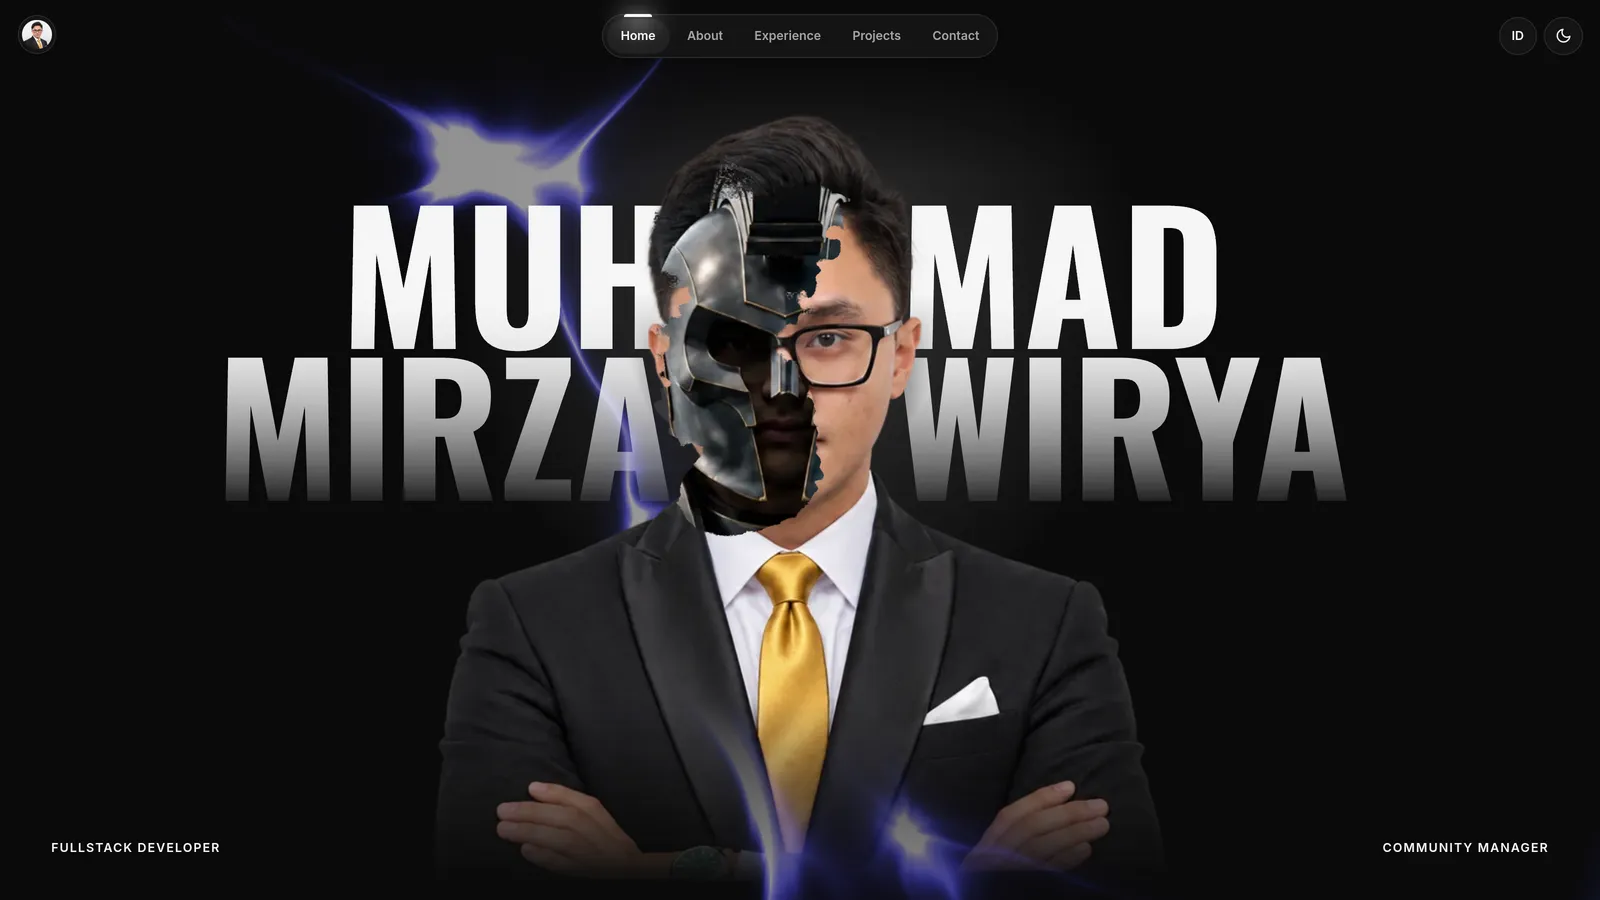
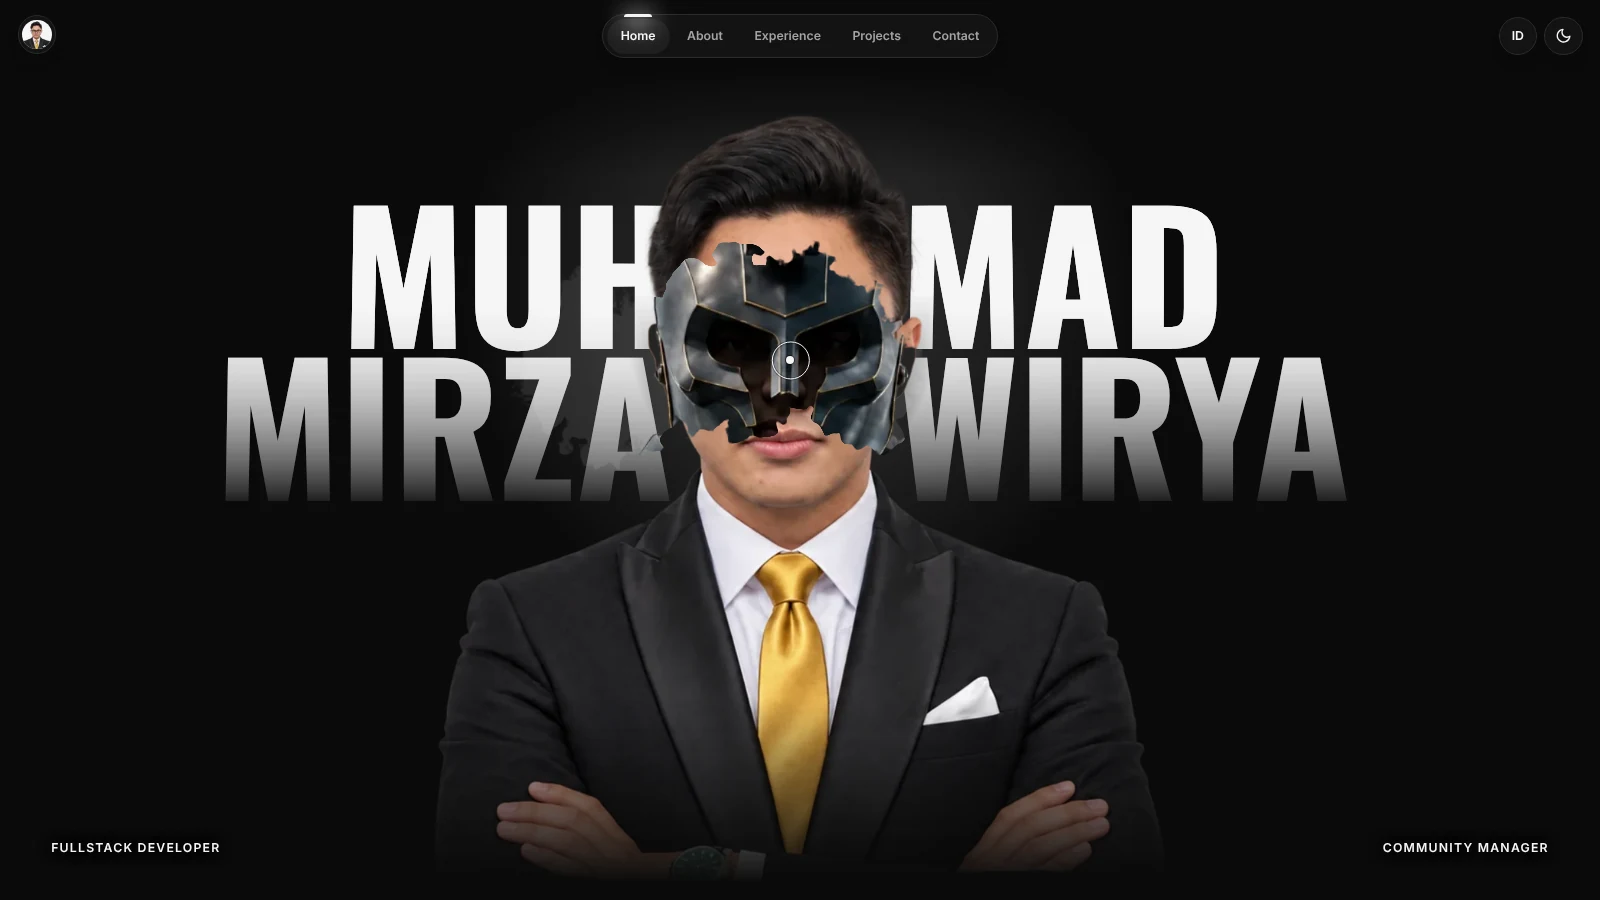
[CLAUDIA] docs(readme): hapus bagian Run Locally dan perbarui tangkapan layar beranda

Changed region(s): [[0.2188, 0.0933, 0.5938, 0.5911], [0.4375, 0.8089, 0.6562, 1.0], [0.0, 0.0311, 0.0312, 0.0622]]

diff --git a/README.md b/README.md
@@ -6,7 +6,7 @@ Portfolio of Muhammad Mirza with a Super Admin Panel
 
 **Live:** [mmirza.site](https://mmirza.site)
 
-![Home page of mmirza.site: the name behind the photo, with an armor layer revealed under the cursor](Documentation/screenshots/home.webp)
+![Home page of mmirza.site: the name behind the photo, with an armor mask revealed under the cursor](Documentation/screenshots/home.webp)
 
 ## Modules
 
@@ -42,20 +42,6 @@ Every module comes in Indonesian and English, dark by default with a light theme
 | **Services** | Cloudinary, Resend, Vercel (region `sin1`, daily cron) |
 | **Testing** | Vitest, Playwright, axe (WCAG 2.2 AA) |
 | **Delivery** | GitHub Actions CI (lint, format, typecheck, tests, `pnpm audit`, gitleaks, E2E on Chromium, Firefox, and WebKit), Docker image on GitHub Packages, daily encrypted database backup workflow (runs once its secrets are set) |
-
-## Run Locally
-
-Needs Node.js 24, pnpm 10, and PostgreSQL 17. Everything runs from `Frontend/`:
-
-```bash
-cd Frontend
-pnpm install
-cp .env.example .env.local    # fill in the values
-pnpm db:migrate && pnpm db:seed
-pnpm dev                      # http://localhost:3000
-```
-
-Before handing work over, run `pnpm lint`, `pnpm typecheck`, `pnpm test`, and `pnpm build`. Details, environment variables, the Docker image, and backup and restore are in [Documentation/DEPLOYMENT.md](Documentation/DEPLOYMENT.md).
 
 ## Repository
 
